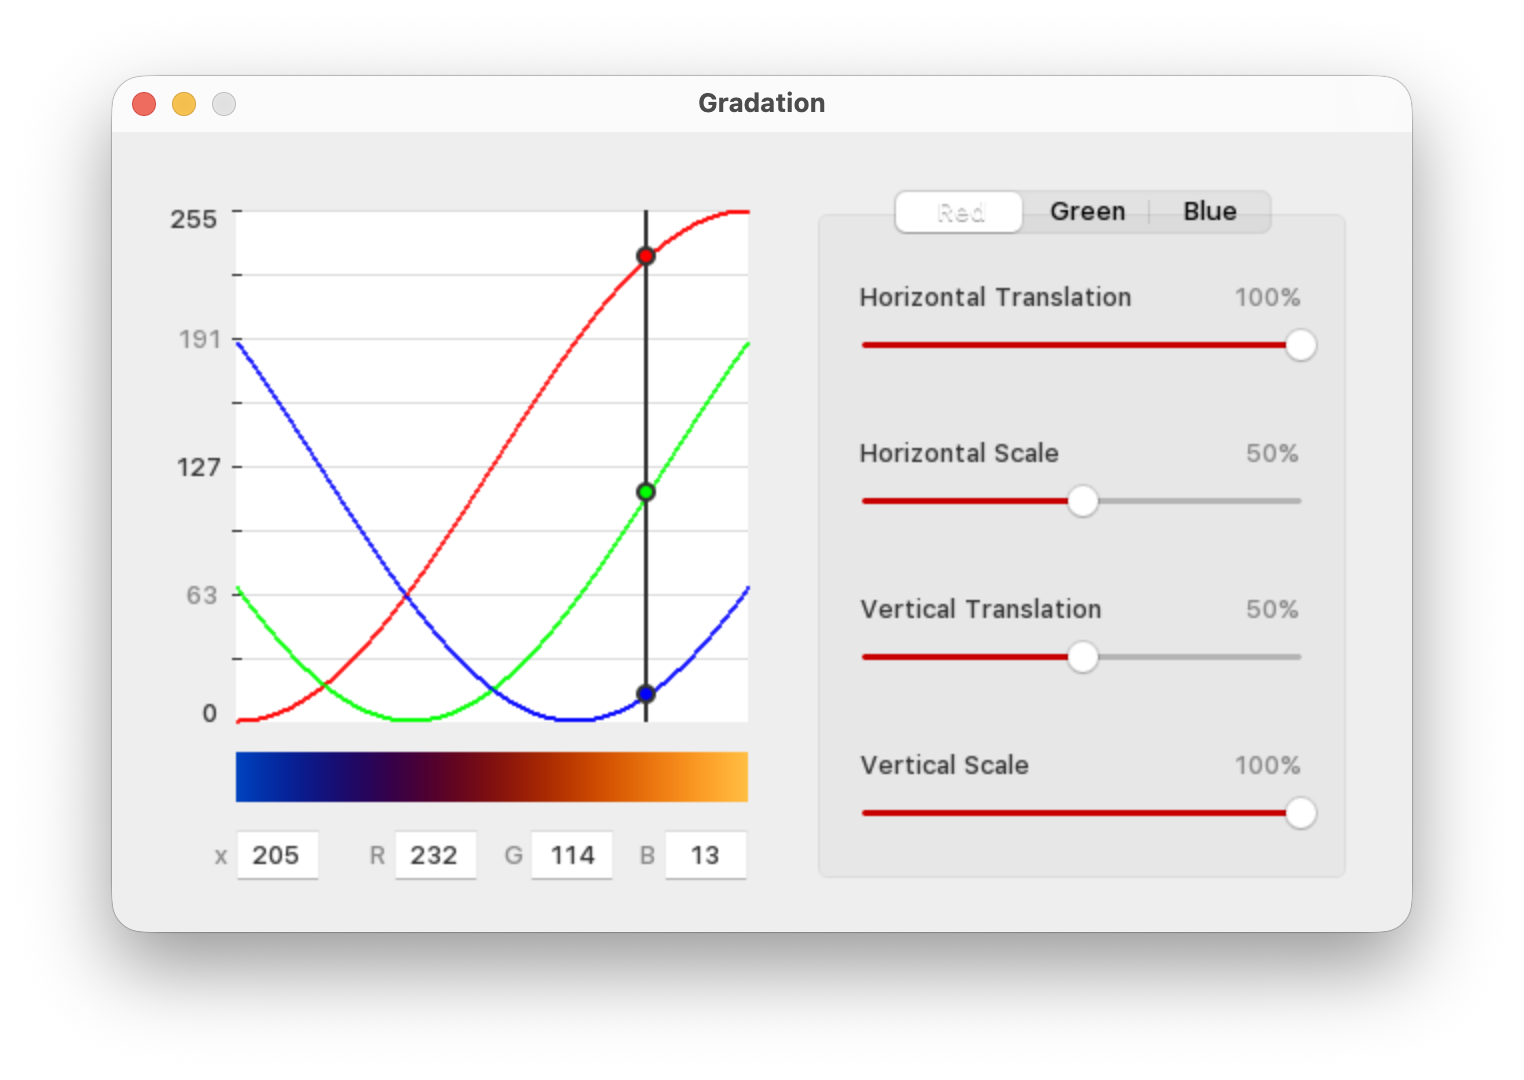
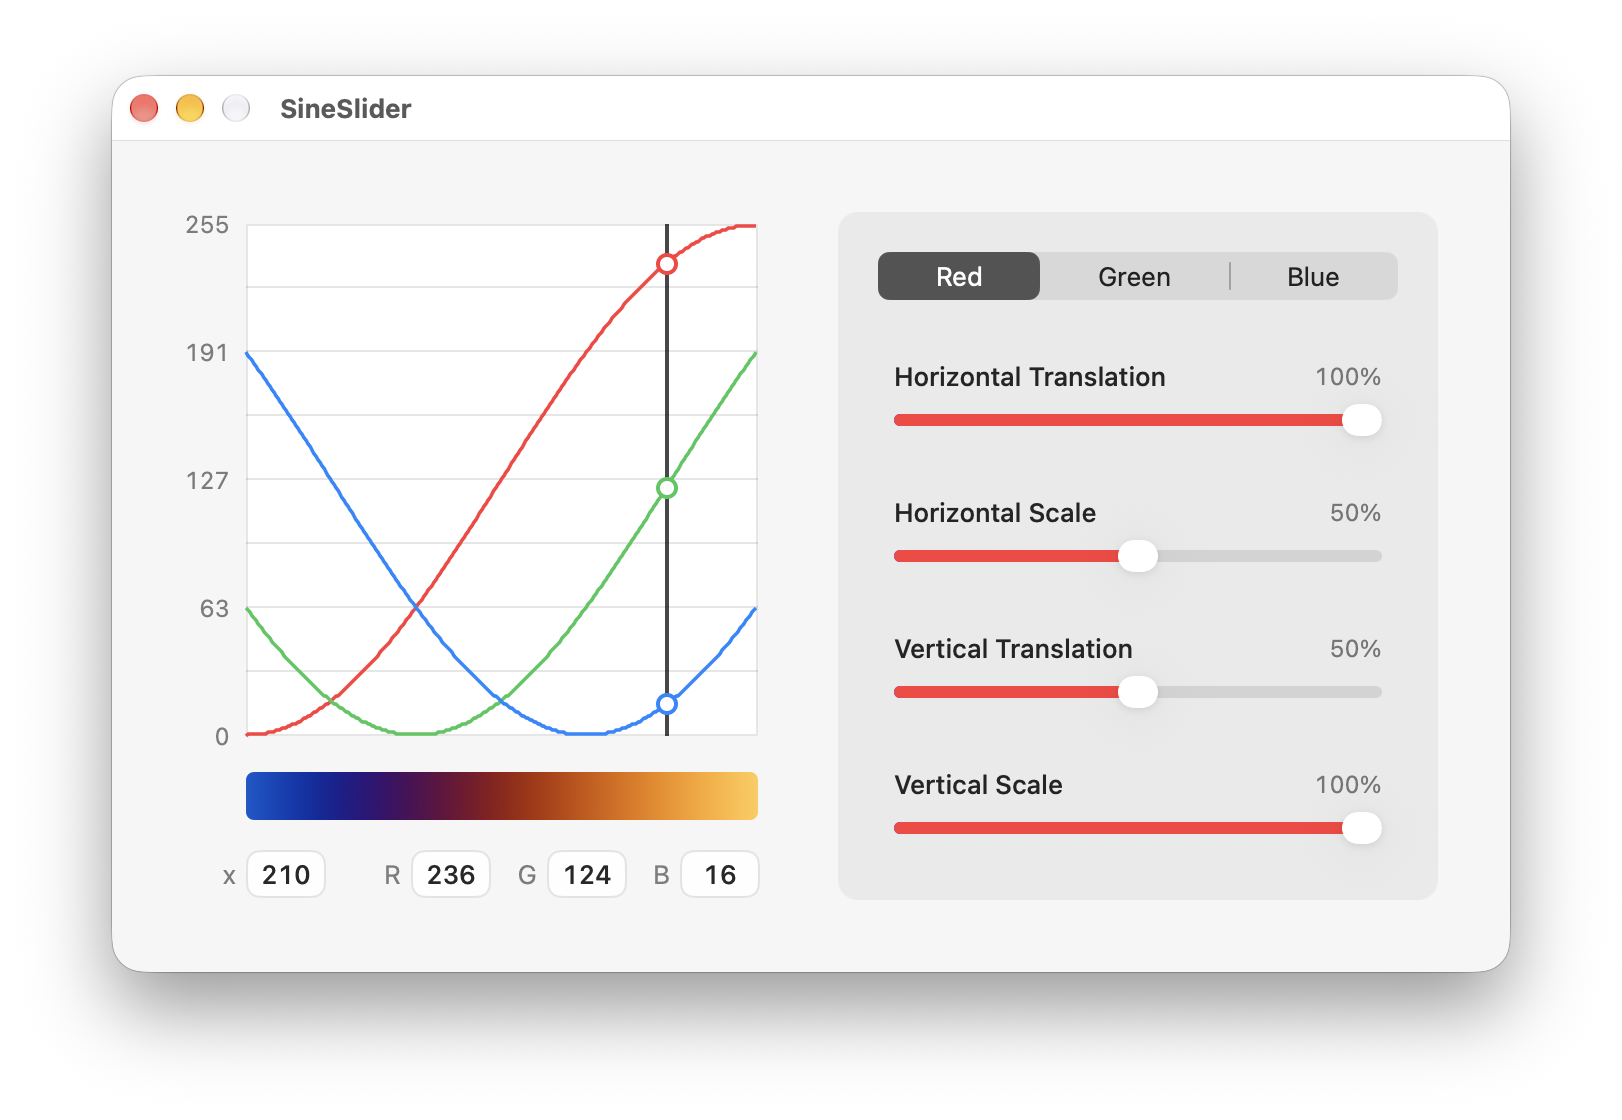
Updated bground to match original, add support for old macOS

diff --git a/native/SineSlider/MainViewController.swift b/native/SineSlider/MainViewController.swift
@@ -59,25 +59,29 @@ final class MainViewController: NSViewController {
         leftColumnContainer.translatesAutoresizingMaskIntoConstraints = false
         leftColumnContainer.addSubview(leftColumn)
 
-        let inspector = NSView()
-        inspector.wantsLayer = true
-        inspector.layer?.backgroundColor = NSColor.quaternarySystemFill.cgColor
-        inspector.layer?.cornerRadius = 10
+        let inspector = NSBox()
+        inspector.boxType = .custom
+        inspector.titlePosition = .noTitle
+        inspector.borderWidth = 0
+        inspector.cornerRadius = 10
+        inspector.fillColor = .tertiarySystemFill
+        inspector.contentViewMargins = .zero
         inspector.translatesAutoresizingMaskIntoConstraints = false
+        let inspectorContent = inspector.contentView!
 
         channelSelector.selectedSegment = ColorChannel.red.rawValue
         channelSelector.selectedSegmentBezelColor = .darkGray
         channelSelector.target = self
         channelSelector.action = #selector(selectChannel(_:))
         channelSelector.translatesAutoresizingMaskIntoConstraints = false
-        inspector.addSubview(channelSelector)
+        inspectorContent.addSubview(channelSelector)
 
         controlsStack.orientation = .vertical
         controlsStack.alignment = .leading
         controlsStack.distribution = .fill
         controlsStack.spacing = 30
         controlsStack.translatesAutoresizingMaskIntoConstraints = false
-        inspector.addSubview(controlsStack)
+        inspectorContent.addSubview(controlsStack)
 
         for transform in CurveTransform.allCases {
             let row = makeSliderRow(for: transform)
@@ -131,14 +135,14 @@ final class MainViewController: NSViewController {
 
             inspector.widthAnchor.constraint(equalToConstant: 300),
 
-            channelSelector.topAnchor.constraint(equalTo: inspector.topAnchor, constant: 20),
-            channelSelector.leadingAnchor.constraint(equalTo: inspector.leadingAnchor, constant: 20),
-            channelSelector.trailingAnchor.constraint(equalTo: inspector.trailingAnchor, constant: -20),
+            channelSelector.topAnchor.constraint(equalTo: inspectorContent.topAnchor, constant: 20),
+            channelSelector.leadingAnchor.constraint(equalTo: inspectorContent.leadingAnchor, constant: 20),
+            channelSelector.trailingAnchor.constraint(equalTo: inspectorContent.trailingAnchor, constant: -20),
 
             controlsStack.topAnchor.constraint(equalTo: channelSelector.bottomAnchor, constant: 30),
-            controlsStack.leadingAnchor.constraint(equalTo: inspector.leadingAnchor, constant: 28),
-            controlsStack.trailingAnchor.constraint(equalTo: inspector.trailingAnchor, constant: -28),
-            controlsStack.bottomAnchor.constraint(equalTo: inspector.bottomAnchor, constant: -28)
+            controlsStack.leadingAnchor.constraint(equalTo: inspectorContent.leadingAnchor, constant: 28),
+            controlsStack.trailingAnchor.constraint(equalTo: inspectorContent.trailingAnchor, constant: -28),
+            controlsStack.bottomAnchor.constraint(equalTo: inspectorContent.bottomAnchor, constant: -28)
         ])
     }
 

diff --git a/native/SineSlider/MainWindowController.swift b/native/SineSlider/MainWindowController.swift
@@ -15,6 +15,7 @@ final class MainWindowController: NSWindowController {
         window.contentViewController = contentViewController
         window.center()
         window.isReleasedWhenClosed = false
+        window.backgroundColor = .underPageBackgroundColor
 
         self.init(window: window)
     }

diff --git a/native/SineSlider/GraphView.swift b/native/SineSlider/GraphView.swift
@@ -86,9 +86,6 @@ final class GraphView: NSView {
     override func draw(_ dirtyRect: NSRect) {
         super.draw(dirtyRect)
 
-        NSColor.controlBackgroundColor.setFill()
-        bounds.fill()
-
         NSColor.textBackgroundColor.setFill()
         plotRect.fill()
 

diff --git a/readme.md b/readme.md
@@ -4,6 +4,12 @@ Experimental project to create more natural looking gradients by interpolating c
 
 Originally written in Java in May 2017.
 
-Rewritten in Swift (native macOS) in Sept 2026 with the help of AI.
+Rewritten as a native macOS app (Swift) in Sept 2026 with the help of AI.
 
 ![screenshot](screenshot.png)
+
+---
+
+Original Java design:
+
+![screenshot](screenshot-java.png)
